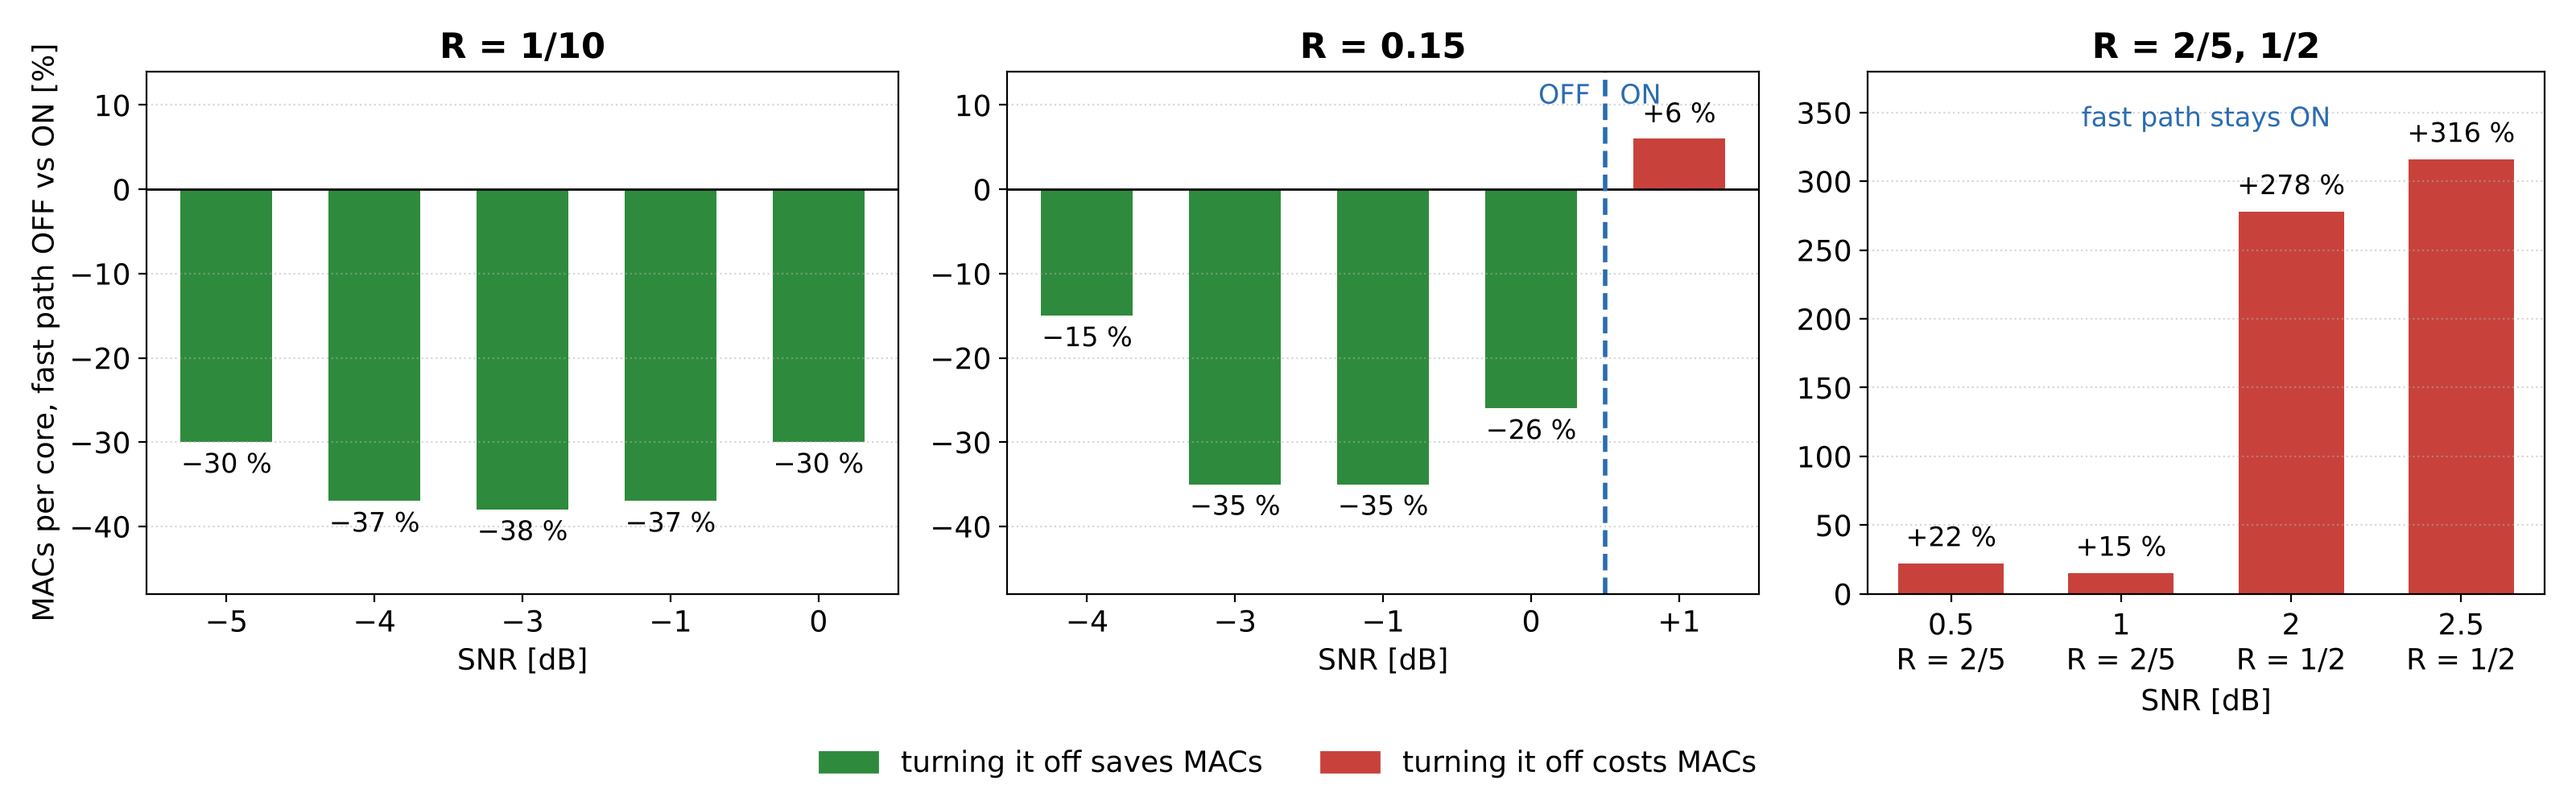
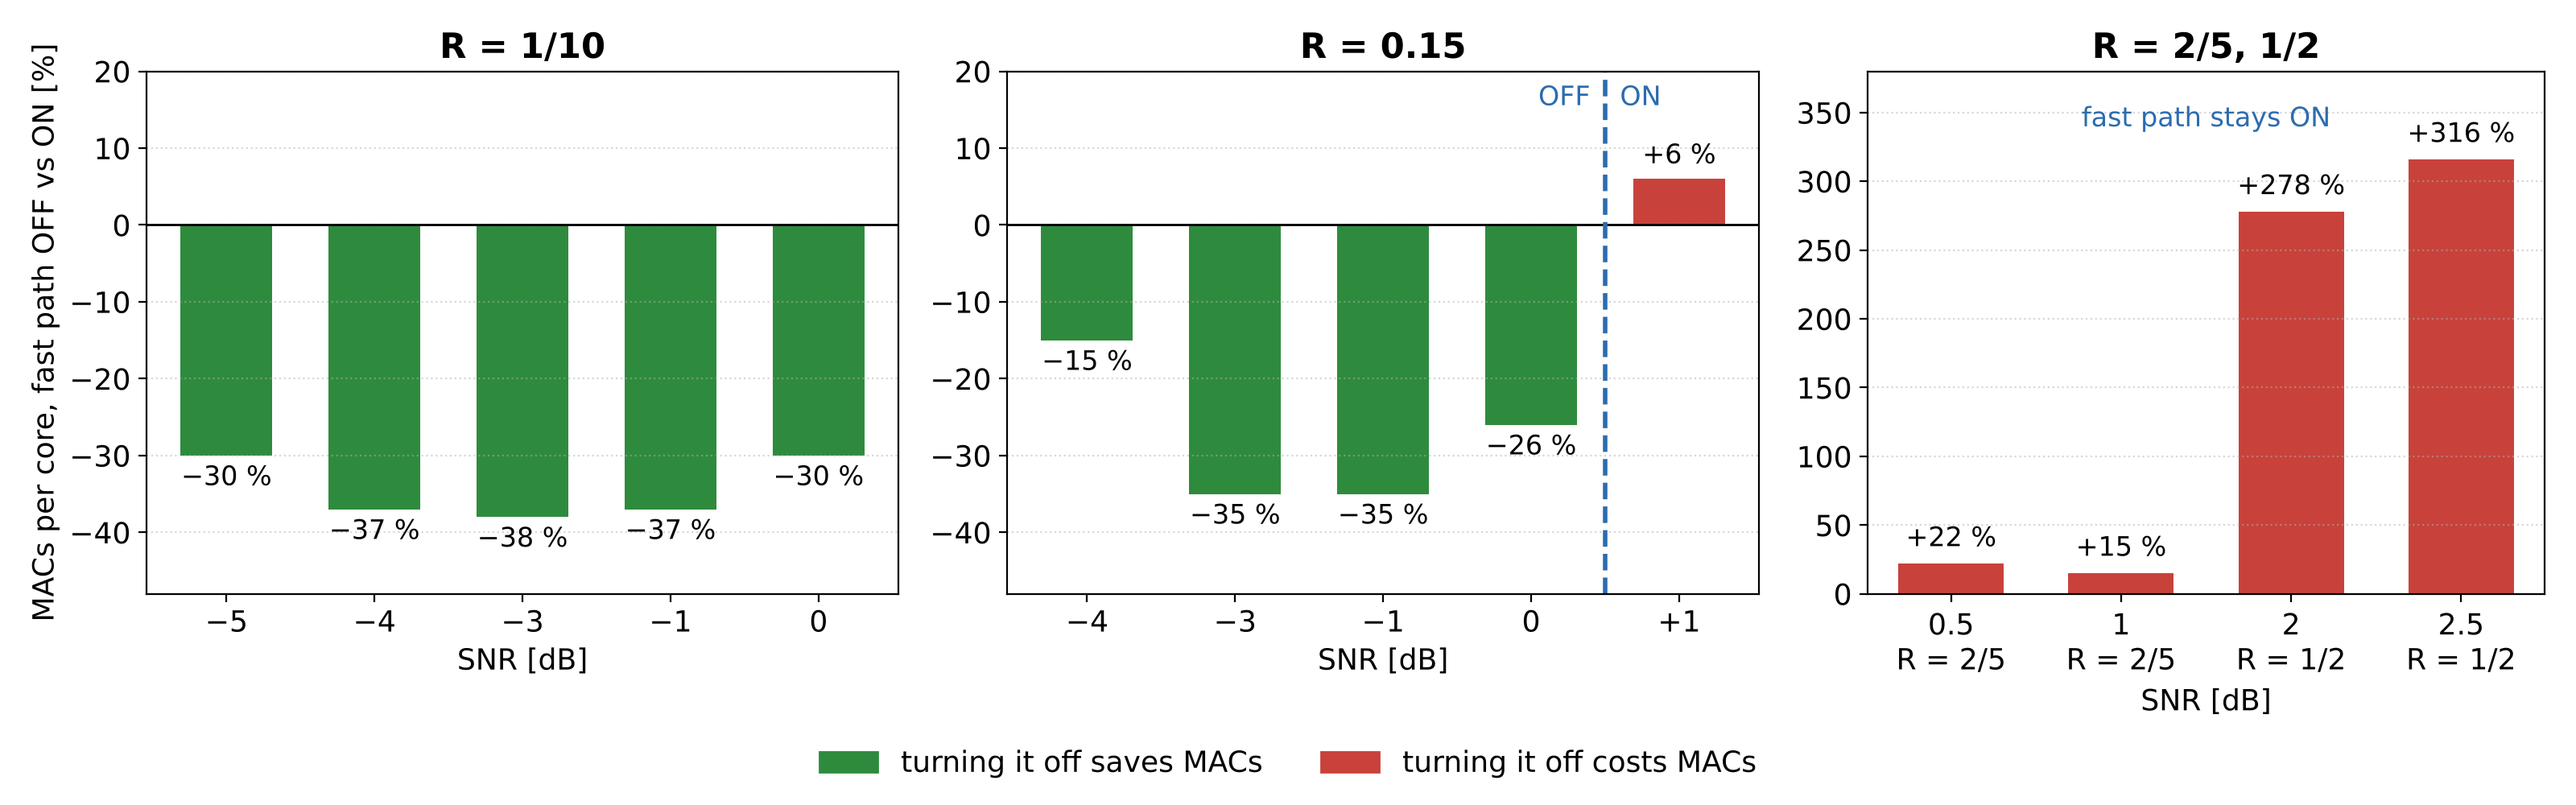
Slides: fast-path switch labels clear of the bars
Claude-Session: https://claude.ai/code/session_01Uut9iw5SnA6a3eeYDv3vkc

diff --git a/slides_eq/plot_fastpath_switch.py b/slides_eq/plot_fastpath_switch.py
@@ -35,13 +35,13 @@ for k, (ax, (title, pts, cut)) in enumerate(zip(axs, P)):
     ax.set_title(title, fontweight="bold")
     ax.grid(True, axis="y", ls=":", alpha=0.5)
     if k < 2:
-        ax.set_ylim(-48, 14)
+        ax.set_ylim(-48, 20)
     else:
         ax.set_ylim(0, 380)
     if cut:
         ax.axvline(cut, color=BLUE, ls="--", lw=2)
-        ax.text(cut - 0.1, 11, "OFF", ha="right", va="center", color=BLUE, fontsize=12)
-        ax.text(cut + 0.1, 11, "ON", ha="left", va="center", color=BLUE, fontsize=12)
+        ax.text(cut - 0.1, 16.5, "OFF", ha="right", va="center", color=BLUE, fontsize=12)
+        ax.text(cut + 0.1, 16.5, "ON", ha="left", va="center", color=BLUE, fontsize=12)
 axs[0].set_ylabel("MACs per core, fast path OFF vs ON [%]")
 axs[2].text(1.5, 340, "fast path stays ON", ha="center", color=BLUE, fontsize=12)
 h = [plt.Rectangle((0, 0), 1, 1, color=GREEN), plt.Rectangle((0, 0), 1, 1, color=RED)]
